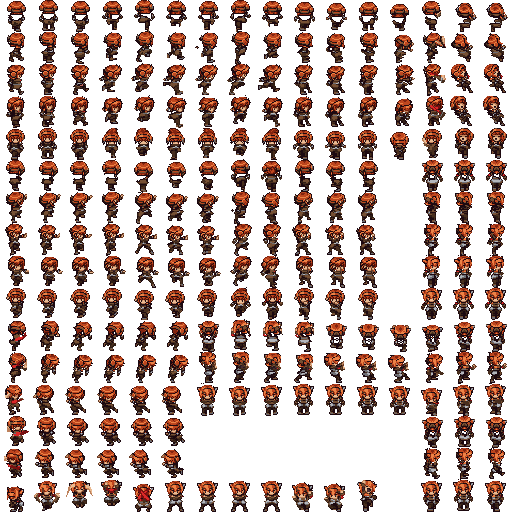
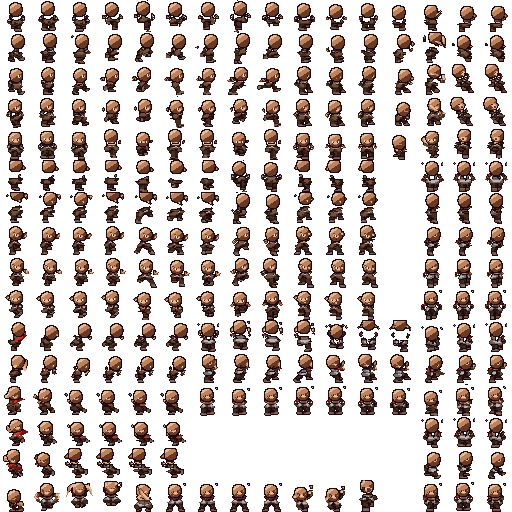
Class skins: a bald man with bigger eyes, slim hips and sturdy legs
make_skins.py now takes the hair and the headphones away and draws a round bald head a size smaller in their place, shaded from the upper left, with the original face put back on it; the head is placed by the face, so a hair bun no longer lifts it, and with no face (from behind) it sits under the hair's centre. The eyes grow a row down, the hip flare wider than the legs is trimmed, and every leg is a pixel thicker on each side. The sword's slash streak is tagged on the untouched frame, so the new head is never recoloured as it. Audit: every sheet within the size and pixel-scale gates; the score drops to 73-74 on measures that follow the original's hair (its texture and its lopsided side view).

Changed region(s): [[0.0, 0.0, 1.0, 1.0]]

diff --git a/misc/hero_skins/make_skins.py b/misc/hero_skins/make_skins.py
@@ -43,14 +43,31 @@ def is_col(cell, cols):
     return m
 
 
+def sprite_top(cell):
+    """the first row at least HEAD_ROW_PIXELS wide: the top of the head,
+    under a hair bun or a tuft sticking up"""
+    rows = np.nonzero((cell[..., 3] > 0).sum(1) >= HEAD_ROW_PIXELS)[0]
+    return rows[0] if len(rows) else None
+
+
+def is_streak(patch, top, head):
+    """a skin-coloured patch that is the sword's slash streak: big and wide,
+    mostly off the head and not reaching its crown (a face, a bald head,
+    a hand are none of these)"""
+    xs = [x for y, x in patch]
+    ys = [y for y, x in patch]
+    in_head = sum(1 for y, x in patch if head[y, x])
+    return (len(patch) > SLASH_PIXELS and max(xs) - min(xs) + 1 >= SLASH_WIDTH and
+            in_head < len(patch) // 2 and min(ys) > top + 2)
+
+
 def head_of(cell):
     """(centre x, centre y) of the head, from the headphones and the top of
     the sprite; None for an empty cell"""
-    op = cell[..., 3] > 0
-    ys = np.nonzero(op.any(1))[0]
-    if len(ys) == 0:
+    top = sprite_top(cell)
+    if top is None:
         return None
-    top = ys[0]
+    op = cell[..., 3] > 0
     phones = is_col(cell, METAL)
     phones[top + 15:] = False
     if phones.sum() >= 3:
@@ -127,6 +144,10 @@ WHITE = (255, 255, 255)
 # streak, not a hand or a face
 SLASH_PIXELS = 20
 SLASH_WIDTH = 10
+HEAD_ROW_PIXELS = 5
+# NOTE: marker colours for the slash streak between bald_head and the
+# palette; nothing in the original uses them
+STREAK = [(1, 2, 3), (4, 5, 6), (7, 8, 9)]
 
 
 def components(mask):
@@ -183,8 +204,155 @@ def widen(cell):
     return out
 
 
+# NOTE: a bald head's skin, dark to light, for the hair's four shades:
+# the darkest stays on the head's rim, the lightest is the shine on top
+BALD = [(96, 52, 32), (176, 116, 80), (204, 144, 104), (244, 204, 168)]
+EYE_WHITE = (244, 240, 232)
+
+
+def reoutline(cell, removed):
+    """after pixels were taken away: drop outline left touching nothing,
+    then outline the new edge next to what was removed"""
+    body = (cell[..., 3] > 0) & ~is_col(cell, [OUTLINE])
+    line = is_col(cell, [OUTLINE])
+    cell[line & ~neighbours8(body)] = 0
+    op = cell[..., 3] > 0
+    edge = ~op & (np.roll(op, 1, 0) | np.roll(op, -1, 0) | np.roll(op, 1, 1) | np.roll(op, -1, 1))
+    edge &= neighbours8(removed)
+    cell[edge] = OUTLINE + (255,)
+    return cell
+
+
+def trim_hips(cell):
+    """no flared hips: in the band between the waist and the legs, cloth
+    wider than the legs below it is taken off"""
+    h = head_of(cell)
+    if h is None:
+        return cell
+    cx, cy = h
+    cell = cell.copy()
+    op = cell[..., 3] > 0
+    lo_y, hi_y = int(cy + WAIST_BELOW_HEAD), int(cy + WAIST_BELOW_HEAD + 4)
+    legs = op[hi_y:min(32, hi_y + 3)]
+    xs = np.nonzero(legs.any(0))[0]
+    if len(xs) == 0:
+        return cell
+    left, right = xs.min() - 1, xs.max() + 1
+    cloth = is_col(cell, CLOTH + ACCENT)
+    removed = np.zeros((32, 32), bool)
+    for y in range(max(0, lo_y), min(32, hi_y)):
+        for x in range(32):
+            if cloth[y, x] and (x < left or x > right):
+                removed[y, x] = True
+    cell[removed] = 0
+    return reoutline(cell, removed)
+
+
+def thicken_legs(cell):
+    """sturdier legs: below the waist, every run of the body in a row grows
+    a pixel on each side, its outline moving out with it"""
+    h = head_of(cell)
+    if h is None:
+        return cell
+    cx, cy = h
+    out = cell.copy()
+    for y in range(int(cy + WAIST_BELOW_HEAD + 2), 32):
+        row = cell[y]
+        op = row[:, 3] > 0
+        x = 0
+        while x < 32:
+            if not op[x]:
+                x += 1
+                continue
+            a = x
+            while x < 32 and op[x]:
+                x += 1
+            b = x - 1
+            if b - a >= 2:
+                if a > 0 and not op[a - 1]:
+                    out[y, a - 1] = row[a]
+                    out[y, a] = row[a + 1]
+                if b < 31 and not op[b + 1]:
+                    out[y, b + 1] = row[b]
+                    out[y, b] = row[b - 1]
+    return out
+
+
+# NOTE: the bald head, drawn in place of the hair: radii and how far
+# below the hair's centre it sits
+BALD_RX = 7.0
+BALD_RY = 7.2
+BALD_DROP = 1.0
+BALD_FACE_LIFT = 2.5
+
+
+def bald_head(cell):
+    """takes the hair (and the headphones) away and draws a round bald head
+    a size smaller in their place, shaded from the upper left, then puts
+    the original face (skin, eyes, mouth) back on it"""
+    h = head_of(cell)
+    if h is None:
+        return cell
+    cx, cy = h
+    cell = cell.copy()
+    yy, xx = np.mgrid[0:32, 0:32]
+    above_neck = yy + 0.5 < cy + NECK_BELOW_HEAD + 1
+    old = ((xx + 0.5 - cx) / 10.5) ** 2 + ((yy + 0.5 - cy) / 9.5) ** 2 <= 1.0
+    old &= above_neck
+    skin = is_col(cell, SKIN)
+    # NOTE: the sword's streak can cross the head; it stays
+    streak = np.zeros((32, 32), bool)
+    top = sprite_top(cell)
+    for patch in components(skin):
+        if is_streak(patch, -99, old):
+            for y, x in patch:
+                streak[y, x] = True
+    face = (skin | is_col(cell, ACCENT + [WHITE])) & old & ~streak
+    keep = cell.copy()
+    gone = old & ~streak & (cell[..., 3] > 0)
+    cell[gone] = 0
+    # NOTE: the head goes where the face is, the face on its lower half; a
+    # hair bun sticking up would put it too high. With no face (seen from
+    # behind) it sits a little under the hair's centre
+    by = cy + BALD_DROP
+    faces = [p for p in components(skin & ~streak & old)
+             if sum(1 for y, x in p if old[y, x]) * 2 > len(p)]
+    if faces:
+        f = max(faces, key=len)
+        if len(f) >= 4:
+            by = sum(y for y, x in f) / len(f) + 0.5 - BALD_FACE_LIFT
+    bx = cx
+    nx = (xx + 0.5 - bx) / BALD_RX
+    ny = (yy + 0.5 - by) / BALD_RY
+    dome = (nx ** 2 + ny ** 2 <= 1.0) & ~streak
+    light = 0.62 - 0.35 * nx - 0.55 * ny
+    shade = np.where(light > 0.95, 2, np.where(light > 0.55, 1, 0))
+    for k in range(3):
+        m = dome & (shade == k)
+        cell[m] = SKIN[k] + (255,)
+    # NOTE: the face goes back where it was, over the dome; no hair is left
+    # anywhere (the long hair down the back, the ponytail)
+    cell[face] = keep[face]
+    hair = is_col(cell, HAIR) | (is_col(cell, METAL) & old)
+    cell[hair] = 0
+    cell = reoutline(cell, hair | gone)
+    op = cell[..., 3] > 0
+    edge = ~op & (np.roll(op, 1, 0) | np.roll(op, -1, 0) | np.roll(op, 1, 1) | np.roll(op, -1, 1))
+    edge &= neighbours8(dome)
+    cell[edge] = OUTLINE + (255,)
+    # NOTE: the dome's own rim inside the old outline: darken its edge
+    rim = dome & ~(np.roll(dome, 1, 0) & np.roll(dome, -1, 0) & np.roll(dome, 1, 1) & np.roll(dome, -1, 1))
+    rim &= ~face
+    cell[rim & (cell[..., 3] > 0)] = OUTLINE + (255,)
+    # NOTE: the streak keeps marker colours from here on, so the new head
+    # it may touch is never taken for it
+    for src, mark in zip(SKIN, STREAK):
+        cell[streak & is_col(keep, [src])] = mark + (255,)
+    return cell
+
+
 def class_cell(cell, pal):
-    cell = widen(haircut(cell))
+    cell = thicken_legs(trim_hips(widen(bald_head(cell))))
     h = head_of(cell)
     out = cell.copy()
     yy, xx = np.mgrid[0:32, 0:32]
@@ -197,13 +365,15 @@ def class_cell(cell, pal):
         if mask is not None:
             m &= mask
         out[m, :3] = dst
-    for s, d in zip(HAIR, pal['hair']):
+    # NOTE: bald: the hair is skin, shaded like it
+    for s, d in zip(HAIR, BALD):
         put(s, d)
     for s, d in zip(CLOTH, pal['cloth']):
         put(s, d)
-    # NOTE: the headphones become hair; elsewhere grey is the class metal
-    put(METAL[0], pal['hair'][2], head)
-    put(METAL[1], pal['hair'][3], head)
+    # NOTE: the headphones' cups become ears; elsewhere grey is the class
+    # metal
+    put(METAL[0], BALD[1], head)
+    put(METAL[1], BALD[2], head)
     put(METAL[0], pal['metal'][0], ~head)
     put(METAL[1], pal['metal'][1], ~head)
     # NOTE: red in the face is the eyes
@@ -211,28 +381,30 @@ def class_cell(cell, pal):
     put(ACCENT[1], EYE[1], head)
     put(ACCENT[0], pal['accent'][0], ~head)
     put(ACCENT[1], pal['accent'][1], ~head)
-    # NOTE: a man's face: no sparkle in the eyes (they shrink to the dark
-    # pupil), tan skin, and the girl's ribbon tie under the chin becomes
-    # part of the collar
-    put(WHITE, MALE_SKIN[2], head)
+    # NOTE: a man's face: big plain eyes (the sparkle is an eye white), tan
+    # skin, and the girl's ribbon tie under the chin becomes collar
+    put(WHITE, EYE_WHITE, head)
+    # NOTE: bigger eyes: each eye grows a row down, dark under its white
+    # and under the pupil beside it (toward the face's middle)
+    if h:
+        whites = np.argwhere(is_col(out, [EYE_WHITE]) & head)
+        skin_now = is_col(out, MALE_SKIN)
+        for y, x in whites:
+            inward = 1 if x < cx else -1
+            for dx in (0, inward):
+                yb, xb = y + 1, x + dx
+                if 0 <= yb < 32 and 0 <= xb < 32 and skin_now[yb, xb]:
+                    out[yb, xb, :3] = EYE[0]
     if h:
         neck = ~head & (np.abs(xx + 0.5 - cx) <= 2.5) & (yy + 0.5 >= cy + 7.5) & (yy + 0.5 <= cy + 14.)
         put(ACCENT[0], pal['cloth'][1], neck)
         put(ACCENT[1], pal['cloth'][2], neck)
-    skin = is_col(cell, SKIN)
-    slash = np.zeros((32, 32), bool)
-    for patch in components(skin):
-        # NOTE: a face with its neck can be as big, but it is narrow; the
-        # streak is wide
-        xs = [x for y, x in patch]
-        if len(patch) > SLASH_PIXELS and max(xs) - min(xs) + 1 >= SLASH_WIDTH:
-            for y, x in patch:
-                slash[y, x] = True
+    slash = is_col(cell, STREAK)
     for s, d in zip(SKIN, MALE_SKIN):
         put(s, d, ~slash)
-    put(SKIN[0], pal['accent'][0], slash)
-    put(SKIN[1], pal['accent'][0], slash)
-    put(SKIN[2], pal['accent'][1], slash)
+    put(STREAK[0], pal['accent'][0])
+    put(STREAK[1], pal['accent'][0])
+    put(STREAK[2], pal['accent'][1])
     # NOTE: trousers, not a skirt over red stockings: below the waist the
     # red stripes, the hem and the bare thigh all become plain trousers
     if h:
